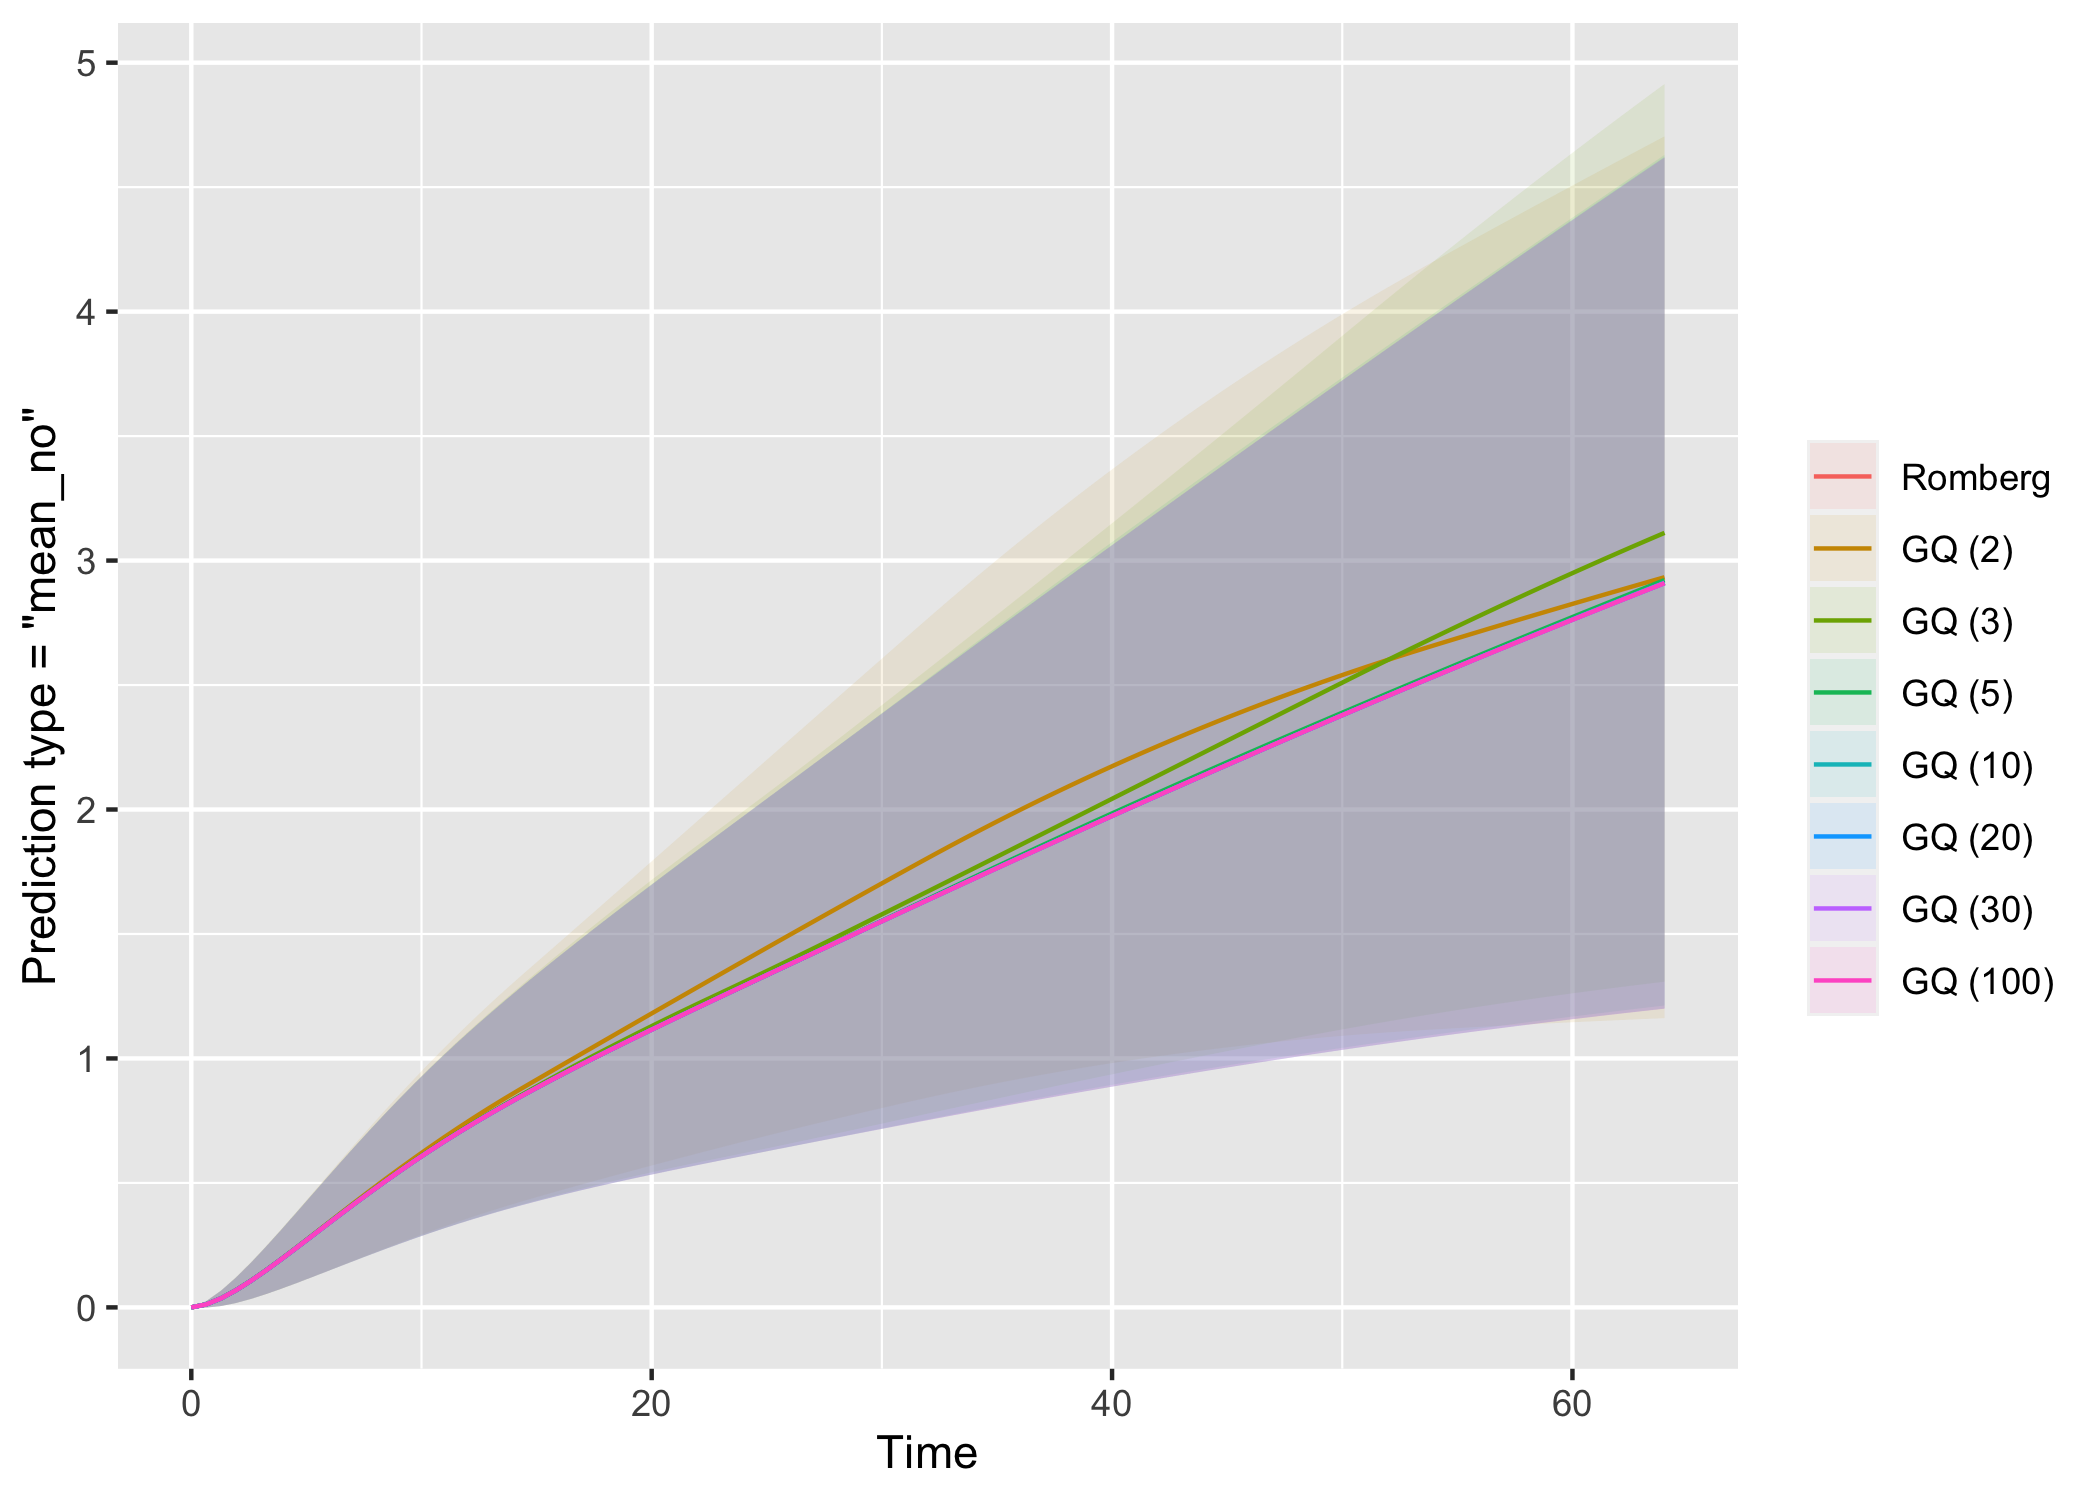
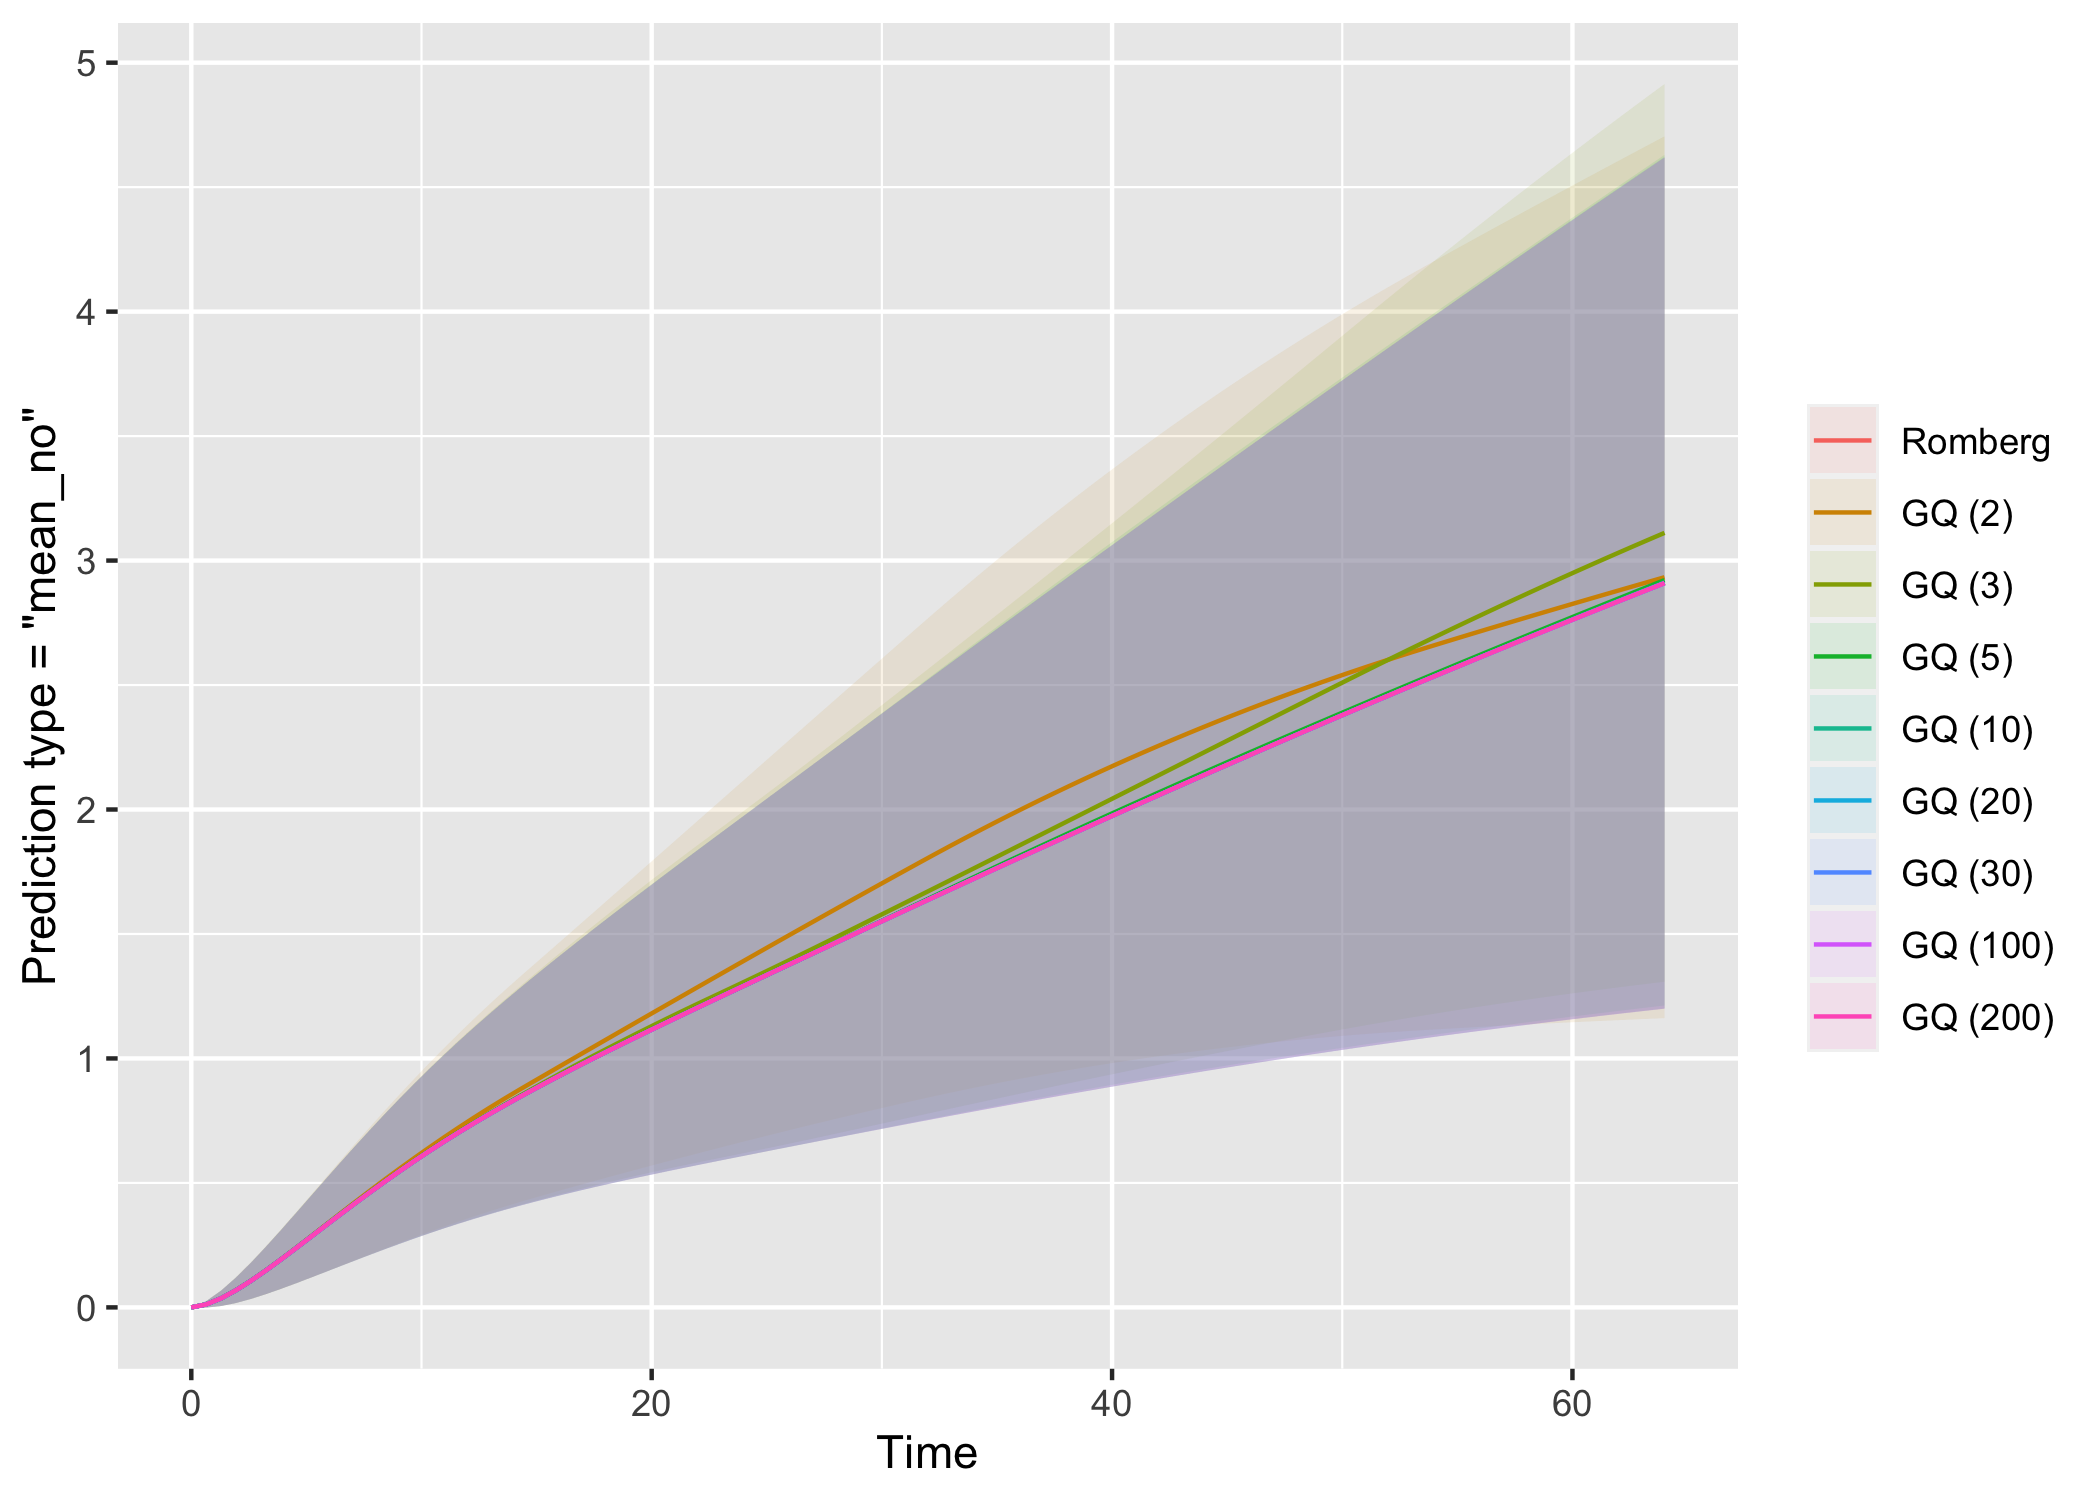
Some edits and improvements to benchmarking document

Changed region(s): [[0.8357, 0.2453, 0.9905, 0.7053]]

diff --git a/benchmark/numerical-integration.md b/benchmark/numerical-integration.md
@@ -121,14 +121,14 @@ p_r <- predict(bldr_model, newdata = nd, t = timep, method = "romberg") |>
   mutate(method = "romberg")
 ```
 
-Then, we use Gauss-Hermite quadrature with 2, 3, 5, 10, 20, 30, or 100
-quadrature points:
+Then, we use Gauss-Hermite quadrature with 2, 3, 5, 10, 20, 30, 100, or
+200 quadrature points:
 
 ``` r
 library(glue)
 
 p_gq <- map_dfr(
-  .x = c(2, 3, 5, 10, 20, 30, 100),
+  .x = c(2, 3, 5, 10, 20, 30, 100, 200),
   .f = function(x) {
     predict(bldr_model, newdata = nd, t = timep, method = "gq", ngq = x) |>
       mutate(method = glue("gq{x}"))
@@ -142,8 +142,8 @@ We combine these predictions and plot them:
 bind_rows(p_r, p_gq) |>
   mutate(method = factor(
     x = method,
-    levels = c("romberg", "gq2", "gq3", "gq5", "gq10", "gq20", "gq30", "gq100"),
-    labels = c("Romberg", "GQ (2)", "GQ (3)", "GQ (5)", "GQ (10)", "GQ (20)", "GQ (30)", "GQ (100)")
+    levels = c("romberg", "gq2", "gq3", "gq5", "gq10", "gq20", "gq30", "gq100", "gq200"),
+    labels = c("Romberg", "GQ (2)", "GQ (3)", "GQ (5)", "GQ (10)", "GQ (20)", "GQ (30)", "GQ (100)", "GQ (200)")
   )) |>
   ggplot(aes(x = stop, y = fit)) +
   geom_ribbon(aes(ymin = lci, ymax = uci, fill = method), alpha = 0.1) +
@@ -166,8 +166,8 @@ bind_rows(p_r, p_gq) |>
   mutate(diff = abs(value - romberg)) |>
   mutate(name = factor(
     x = name,
-    levels = c("gq2", "gq3", "gq5", "gq10", "gq20", "gq30", "gq100"),
-    labels = c("GQ (2)", "GQ (3)", "GQ (5)", "GQ (10)", "GQ (20)", "GQ (30)", "GQ (100)")
+    levels = c("gq2", "gq3", "gq5", "gq10", "gq20", "gq30", "gq100", "gq200"),
+    labels = c("GQ (2)", "GQ (3)", "GQ (5)", "GQ (10)", "GQ (20)", "GQ (30)", "GQ (100)", "GQ (200)")
   )) |>
   ggplot(aes(x = stop, y = diff, color = name)) +
   geom_line() +
@@ -181,7 +181,7 @@ alt="Figure 2: Predictions for the mean number of events (with 95% confidence i
 
 Once we use 20+ integration points, the predicted values are pretty
 close to each other. With 30+ integration points the two methods
-(Romberg vs Gaussian quadrature) are largely perfectly overlapping.
+(Romberg vs Gaussian quadrature) are even closer.
 
 # Benchmark
 
@@ -198,14 +198,15 @@ library(bench)
 timep2 <- seq(.Machine$double.eps, max(bldr_stacked$stop), length.out = 5)
 
 perf <- mark(
-  "01: Romberg" = predict(bldr_model, newdata = nd, t = timep2, method = "romberg"),
-  "02: GQ (2)" = predict(bldr_model, newdata = nd, t = timep2, method = "gq", ngq = 2),
-  "03: GQ (3)" = predict(bldr_model, newdata = nd, t = timep2, method = "gq", ngq = 3),
-  "05: GQ (5)" = predict(bldr_model, newdata = nd, t = timep2, method = "gq", ngq = 5),
-  "06: GQ (10)" = predict(bldr_model, newdata = nd, t = timep2, method = "gq", ngq = 10),
-  "08: GQ (20)" = predict(bldr_model, newdata = nd, t = timep2, method = "gq", ngq = 20),
-  "10: GQ (30)" = predict(bldr_model, newdata = nd, t = timep2, method = "gq", ngq = 30),
-  "11: GQ (100)" = predict(bldr_model, newdata = nd, t = timep2, method = "gq", ngq = 100),
+  "1: Romberg" = predict(bldr_model, newdata = nd, t = timep2, method = "romberg"),
+  "2: GQ (2)" = predict(bldr_model, newdata = nd, t = timep2, method = "gq", ngq = 2),
+  "3: GQ (3)" = predict(bldr_model, newdata = nd, t = timep2, method = "gq", ngq = 3),
+  "4: GQ (5)" = predict(bldr_model, newdata = nd, t = timep2, method = "gq", ngq = 5),
+  "5: GQ (10)" = predict(bldr_model, newdata = nd, t = timep2, method = "gq", ngq = 10),
+  "6: GQ (20)" = predict(bldr_model, newdata = nd, t = timep2, method = "gq", ngq = 20),
+  "7: GQ (30)" = predict(bldr_model, newdata = nd, t = timep2, method = "gq", ngq = 30),
+  "8: GQ (100)" = predict(bldr_model, newdata = nd, t = timep2, method = "gq", ngq = 100),
+  "9: GQ (200)" = predict(bldr_model, newdata = nd, t = timep2, method = "gq", ngq = 200),
   check = FALSE, iterations = 30
 )
 ```
@@ -220,17 +221,18 @@ summary(perf)
     Warning: Some expressions had a GC in every iteration; so filtering is
     disabled.
 
-    # A tibble: 8 × 6
-      expression        min   median `itr/sec` mem_alloc `gc/sec`
-      <bch:expr>   <bch:tm> <bch:tm>     <dbl> <bch:byt>    <dbl>
-    1 01: Romberg     12.7s    13.2s    0.0754  185.57MB     2.77
-    2 02: GQ (2)    155.9ms  157.5ms    5.79      4.27MB     2.51
-    3 03: GQ (3)    156.6ms    159ms    6.23      6.81MB     2.91
-    4 05: GQ (5)    166.4ms  168.8ms    5.85     10.76MB     2.73
-    5 06: GQ (10)   170.9ms  177.6ms    5.53     23.23MB     2.58
-    6 08: GQ (20)     178ms  185.3ms    5.39     44.59MB     2.70
-    7 10: GQ (30)   183.2ms  188.9ms    5.19      65.8MB     2.42
-    8 11: GQ (100)  231.8ms  248.6ms    4.01    213.66MB     3.74
+    # A tibble: 9 × 6
+      expression       min   median `itr/sec` mem_alloc `gc/sec`
+      <bch:expr>  <bch:tm> <bch:tm>     <dbl> <bch:byt>    <dbl>
+    1 1: Romberg     12.8s    12.8s    0.0769  185.57MB     2.68
+    2 2: GQ (2)    156.5ms  158.1ms    6.27      4.27MB     2.51
+    3 3: GQ (3)    157.7ms  162.3ms    6.08      6.81MB     2.63
+    4 4: GQ (5)    167.2ms  172.4ms    5.78     10.76MB     2.70
+    5 5: GQ (10)   173.2ms    177ms    5.53     23.23MB     2.39
+    6 6: GQ (20)   179.3ms  192.2ms    4.95     44.59MB     2.31
+    7 7: GQ (30)   184.7ms  190.5ms    5.18      65.8MB     2.25
+    8 8: GQ (100)  230.2ms  248.1ms    4.09    213.66MB     2.59
+    9 9: GQ (200)  319.4ms  326.3ms    3.02    425.05MB     3.63
 
 …or, on a relative scale (vs the fastest time):
 
@@ -241,17 +243,18 @@ summary(perf, relative = TRUE)
     Warning: Some expressions had a GC in every iteration; so filtering is
     disabled.
 
-    # A tibble: 8 × 6
-      expression     min median `itr/sec` mem_alloc `gc/sec`
-      <bch:expr>   <dbl>  <dbl>     <dbl>     <dbl>    <dbl>
-    1 01: Romberg  81.5   83.6        1       43.5      1.14
-    2 02: GQ (2)    1      1         76.8      1        1.04
-    3 03: GQ (3)    1.00   1.01      82.6      1.60     1.20
-    4 05: GQ (5)    1.07   1.07      77.6      2.52     1.13
-    5 06: GQ (10)   1.10   1.13      73.4      5.44     1.07
-    6 08: GQ (20)   1.14   1.18      71.5     10.4      1.11
-    7 10: GQ (30)   1.17   1.20      68.9     15.4      1   
-    8 11: GQ (100)  1.49   1.58      53.2     50.1      1.54
+    # A tibble: 9 × 6
+      expression    min median `itr/sec` mem_alloc `gc/sec`
+      <bch:expr>  <dbl>  <dbl>     <dbl>     <dbl>    <dbl>
+    1 1: Romberg  81.5   81.3        1       43.5      1.19
+    2 2: GQ (2)    1      1         81.5      1        1.12
+    3 3: GQ (3)    1.01   1.03      79.0      1.60     1.17
+    4 4: GQ (5)    1.07   1.09      75.2      2.52     1.20
+    5 5: GQ (10)   1.11   1.12      71.9      5.44     1.07
+    6 6: GQ (20)   1.15   1.22      64.4     10.4      1.03
+    7 7: GQ (30)   1.18   1.20      67.4     15.4      1   
+    8 8: GQ (100)  1.47   1.57      53.2     50.1      1.15
+    9 9: GQ (200)  2.04   2.06      39.3     99.6      1.61
 
 The predictions calculated using Gaussian quadrature are significantly
 faster than the predictions that use Romberg integration, but with
@@ -399,8 +402,8 @@ summary(perf_std, relative = TRUE)
     # A tibble: 2 × 6
       expression   min median `itr/sec` mem_alloc `gc/sec`
       <bch:expr> <dbl>  <dbl>     <dbl>     <dbl>    <dbl>
-    1 1: Romberg  63.6   61.4       1        4.36     1.17
-    2 2: GQ (30)   1      1        61.8      1        1   
+    1 1: Romberg  65.8   65.3       1        4.36     1.35
+    2 2: GQ (30)   1      1        65.0      1        1   
 
 ``` r
 autoplot(perf_std) +
